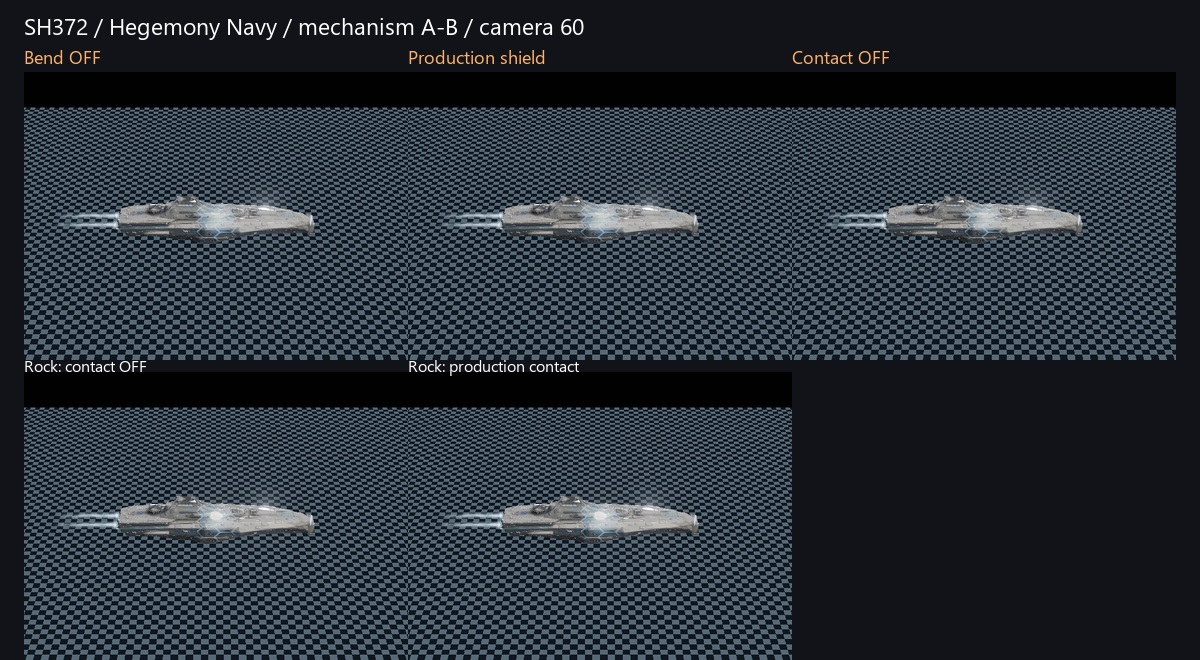
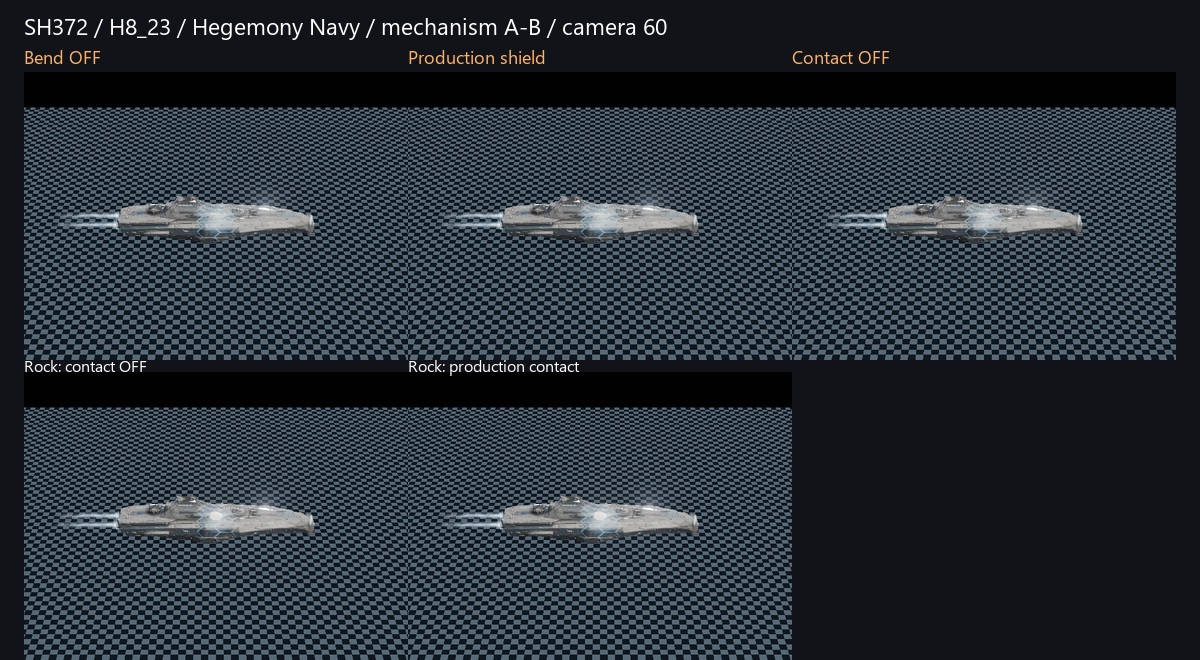
Codex (issue #372): Shield surface look: energy with depth instead of flat line art
Refs #372. Reviewed and retained the resumed shield implementation. No commit or push.

Changed six files: the measurement tool, README, measurements, verification report, and two mechanism sheets. The tool now exits with failure when required pixel measurements fail.

Checks:

- Standing table: 56 PASS, 2 KNOWN, no new failures.
- Four-faction headless shield bench and nine effects checks passed.
- Crackle atlas rebaked identically.
- All 12 readability cases passed; measured light cap was 0.650.
- Removing the bend effect correctly caused exit 1.
- Diff and scope checks passed.

Preserved the existing GPU captures. Original gate results were 5.819 → 4.430 ms at 1080p and 5.674 → 5.696 ms for 4K GPU time. GPU runs were not repeated on code-only lane C; full parity was skipped because no rules changed.

Ryan approval and issue 256 review remain pending. The existing hit-pair shutdown crash remains documented.

[Review report](C:/Users/rcbai/Downloads/voidsworn_test/board_c/issue-372/shots/README.md) · [Camera 170 comparison](C:/Users/rcbai/Downloads/voidsworn_test/board_c/issue-372/shots/SH372_voidsworn_c170.jpg)

Runner checks:

checks_node.txt
Running b1_tests (limit 300 s)...
PASS: exit 0
Running b3_tests (limit 300 s)...
PASS: exit 0
Running b4_tests (limit 300 s)...
PASS: exit 0
Running backlog_tests (limit 300 s)...
PASS: exit 0
Running build_manifest_tests (limit 300 s)...
[…]

Changed region(s): [[0.0925, 0.0303, 0.555, 0.0606]]

diff --git a/tools/blender/vfx/measure_shields.py b/tools/blender/vfx/measure_shields.py
@@ -88,7 +88,7 @@ def readability(folder, name):
                                         "after": contrast(lit[inside_y, x], lit[outside_y, x])})
     # Eight evenly spaced baseline-qualified edge pairs, independent of lit.
     edge_candidates.sort(key=lambda e: (e["inside"][0], e["inside"][1]))
-    edges = [edge_candidates[int((len(edge_candidates)-1)*i/7)] for i in range(8)] if edge_candidates else []
+    edges = [edge_candidates[int((len(edge_candidates)-1)*i/7)] for i in range(8)] if len(edge_candidates) >= 8 else []
     return {"interior": interior, "edges": edges,
             "interior_kept_30pct": sum(s["retained"] >= .3 for s in interior),
             "edges_at_least_1_25": sum(s["after"] >= 1.25 for s in edges),
@@ -112,6 +112,26 @@ def font(size):
         return ImageFont.load_default()
 
 
+def verification_failures(stats):
+    failures = []
+    for faction in FACTIONS:
+        cap = stats["cap_stress"][faction]
+        if not cap["calibration_valid"] or cap["max_channel_linear"] <= 0:
+            failures.append(f"{faction}: invalid cap calibration or no shield light")
+        if not cap["cap_met"]:
+            failures.append(f"{faction}: shield light exceeds the calibrated ceiling")
+        for camera in [170, 60, 26]:
+            name = f"{faction}_c{camera}"
+            if not stats["readability"][name].get("pass", False):
+                failures.append(f"{name}: hull readability failed")
+            for mechanism in ["bend", "contact", "pattern"]:
+                if stats["mechanisms"][name][mechanism]["changed_pixels_over_1_level"] == 0:
+                    failures.append(f"{name}: {mechanism} has no measured pixel effect")
+        if stats["mechanisms"][faction + "_rock_contact"]["changed_pixels_over_1_level"] == 0:
+            failures.append(f"{faction}: rock contact has no measured pixel effect")
+    return failures
+
+
 def sheets(before, after, out, stats, metadata):
     for faction, display in FACTIONS.items():
         for camera in [170, 60, 26]:
@@ -132,7 +152,8 @@ def sheets(before, after, out, stats, metadata):
     for faction in ["voidsworn", "hegemony"]:
         sheet = Image.new("RGB", (1200, 660), "#111318")
         draw = ImageDraw.Draw(sheet)
-        draw.text((24, 10), f"SH372 / {FACTIONS[faction]} / mechanism A-B / camera 60", font=font(23), fill="white")
+        code = next(r["code"] for r in metadata["captures"] if r["faction"] == faction)
+        draw.text((24, 10), f"SH372 / {code} / {FACTIONS[faction]} / mechanism A-B / camera 60", font=font(23), fill="white")
         for index, (suffix, label) in enumerate([("no_bend", "Bend OFF"), ("diagnostic", "Production shield"), ("no_contact", "Contact OFF")]):
             im = Image.open(after / f"{faction}_c60_{suffix}.png").resize((384, 288), Image.Resampling.LANCZOS)
             sheet.paste(im, (24+384*index, 72))
@@ -158,6 +179,7 @@ def main():
         reference = linear(pixels(args.after / f"{faction}_linear_cap_reference.png"))[0, 0]
         measured = cap / np.maximum(reference, 1e-6) * .65
         stats["cap_stress"][faction] = {"max_channel_linear": float(measured.max()),
+                                       "calibration_valid": bool(np.all(reference > 0)),
                                        "reference_srgb": pixels(args.after / f"{faction}_linear_cap_reference.png")[0, 0].tolist(),
                                        "cap_met": bool(measured.max() <= .66)}
         for camera in [170, 60, 26]:
@@ -179,8 +201,13 @@ def main():
                     sheet.paste(strip.crop((frame*384, 0, (frame+1)*384, 216)), (24+384*index, y))
             draw.text((24, 576), "Standing look-bench moments; one shot; source pixels at 170, half at 60, third at 26.", font=font(16), fill="white")
             sheet.save(args.out / f"SH372_hit_pair_c{camera}.jpg", quality=94)
+    failures = verification_failures(stats)
+    stats["verification"] = {"passed": not failures, "failures": failures}
     (args.out / "measurements.json").write_text(json.dumps(stats, indent=2) + "\n")
     print(json.dumps({"cap": stats["cap_stress"], "readability": {k: {x: v.get(x) for x in ["pass", "interior_kept_30pct", "minimum_edge_contrast"]} for k, v in stats["readability"].items()}}, indent=2))
+    if failures:
+        raise SystemExit("SHIELD_MEASURE FAIL: " + "; ".join(failures))
+    print("SHIELD_MEASURE PASS: cap, hull readability, bend, contact and faction masks")
 
 
 if __name__ == "__main__":

diff --git a/docs/shots/look_bench/shields/README.md b/docs/shots/look_bench/shields/README.md
@@ -48,6 +48,10 @@ The hit-pair capture has a recorded limitation: it saves all six 18-frame strips
 
 Worker commands use the installed Godot console executable and the PC's ComfyUI Python. Wrap GPU runs in `tools/pc/tmo.bat`, one at a time, with the GPU go still cleared. Run the surface scene with `--out DIR`, repeat into a second directory, and keep the second. Add `--quality low` for the fallback, `--stress` for isolation, or `--bursts ABSOLUTE_MOMENTS_JSON` for the hit pair. `--headless ... --state-only` runs the state check. Measure with `measure_shields.py --before BEFORE --after AFTER --bursts HIT_PAIR --out SHEETS`. Frame-gate arguments are `--modes base,res_2160 --sessions 3 --warmup 120 --frames 720`.
 
-All linked pictures and measurement reports are also copied into `C:/Users/rcbai/Downloads/voidsworn_test/board/issue-372/shots`. Raw kept folders there are `before_final`, `proof`, `hit_kept`, `gate_before`, `gate_final`, `stress_before` and `stress_delivered`. Logs and scratch remain in TEMP.
+The measurement command exits non-zero if the calibrated light cap or hull readability fails, or if the bend, hull contact, rock contact or faction mask has no measured pixel effect. A missing calibration and fewer than eight distinct silhouette pairs also fail. It writes the failure reasons into `measurements.json`. The resumed run proved rejection by replacing one bend-off control with its production image: `hegemony_c170: bend has no measured pixel effect`, exit 1. The untouched captures pass, exit 0.
+
+All linked pictures and measurement reports are copied into `C:/Users/rcbai/Downloads/voidsworn_test/board_c/issue-372/shots`, the resumed task's required destination. This folder also carries copies of the original raw kept folders: `before_final`, `proof`, `hit_kept`, `gate_before`, `gate_final`, `stress_before` and `stress_delivered`. The original files in `board/issue-372/shots` are preserved. Logs and scratch remain in TEMP.
+
+The resumed run keeps the production surface and the existing GPU captures from partial commit `89bb41a0`. It remeasures the saved pixels, adds hull codes to the mechanism sheets, and verifies the deterministic crackle bake byte for byte. It does not claim a fresh GPU capture or timing run: this checkout is on lane C, which is reserved for code-only work, and other Godot jobs were active. The performance numbers above belong to the original kept runs.
 
 R129: callers retain the same hit-point dictionary and function signatures; the skin follows hull motion. No saves, rules, browser oracle, exported tables, UI or ship assets were edited, and no oracle refresh is due. GitHub will still run standing checks, Godot rules parity and Godot game checks. Ryan's visual approval and the issue 256 outside check remain pending. Nothing was committed or pushed by this run.
